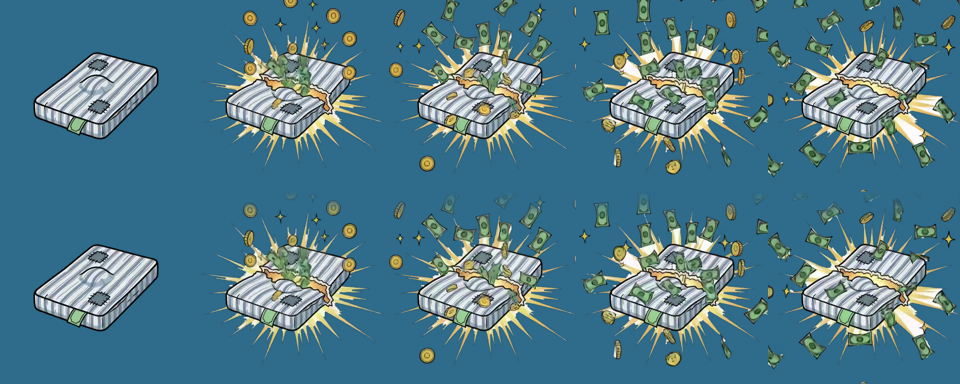
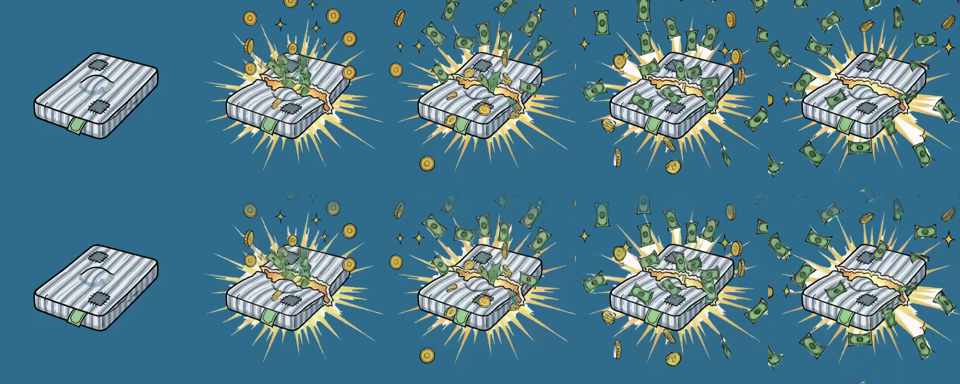
docs(b32): por qué el degradé no se veía en el juego y las tiras rehechas como composita el juego (E14b B32)

diff --git a/Docs/SESION-2026-10-15-v2-e14b-b32-caja-sin-corte.md b/Docs/SESION-2026-10-15-v2-e14b-b32-caja-sin-corte.md
@@ -50,3 +50,19 @@ Colchón (25, 32, 40, 50, 65): `Docs/capturas/b32/tira-colchon-antes-despues.png
 
 Capturas en el SE y el Pro Max de la caja abriéndose en el tablero (comparar con la opción A del
 mockup), y mirar a ojo el cofre (7 %) y el colchón en el tablero.
+
+## Corrección (r60, 2026-10-16): el degradé no se veía en el juego
+
+El dueño, con el build 5: «no lo veo en el juego». **Causa:** los clips con alfa del juego son
+**premultiplicados** (los exporta así `video_assets.keyed_filter` y así los composita `SKVideoNode`), y la
+primera horneada multiplicó **sólo el alfa**. Arriba quedaba el color de los rayos entero sobre un alfa
+casi nulo (cuadro 56, fila 2: alfa 9, rojo 116), y el juego lo **sumaba** al fondo: los rayos seguían
+llegando al borde, ahora como una franja clara cortada en recto. Las tiras de arriba no lo mostraban
+porque `tira` componía con alfa recto.
+
+**Arreglo:** `difuminar` multiplica color y alfa por el degradé; `tira` compone premultiplicado, como el
+juego. Se rehornearon los tres clips desde los originales (mismos parámetros: paquete 15 % desde el 44,
+cofre 7 % desde el 39, colchón 15 % desde el 32) y se rehicieron las tres tiras de `Docs/capturas/b32/`.
+Test nuevo: en el 15 % de arriba de los horneados el color no pasa al alfa (con el error lo pasaba el
+17–68 % de lo semitransparente). Capturas del simulador antes/después en
+`.claude/avo/2026-10-06-fisu-v2/capturas-r60/b32-fix/`.
